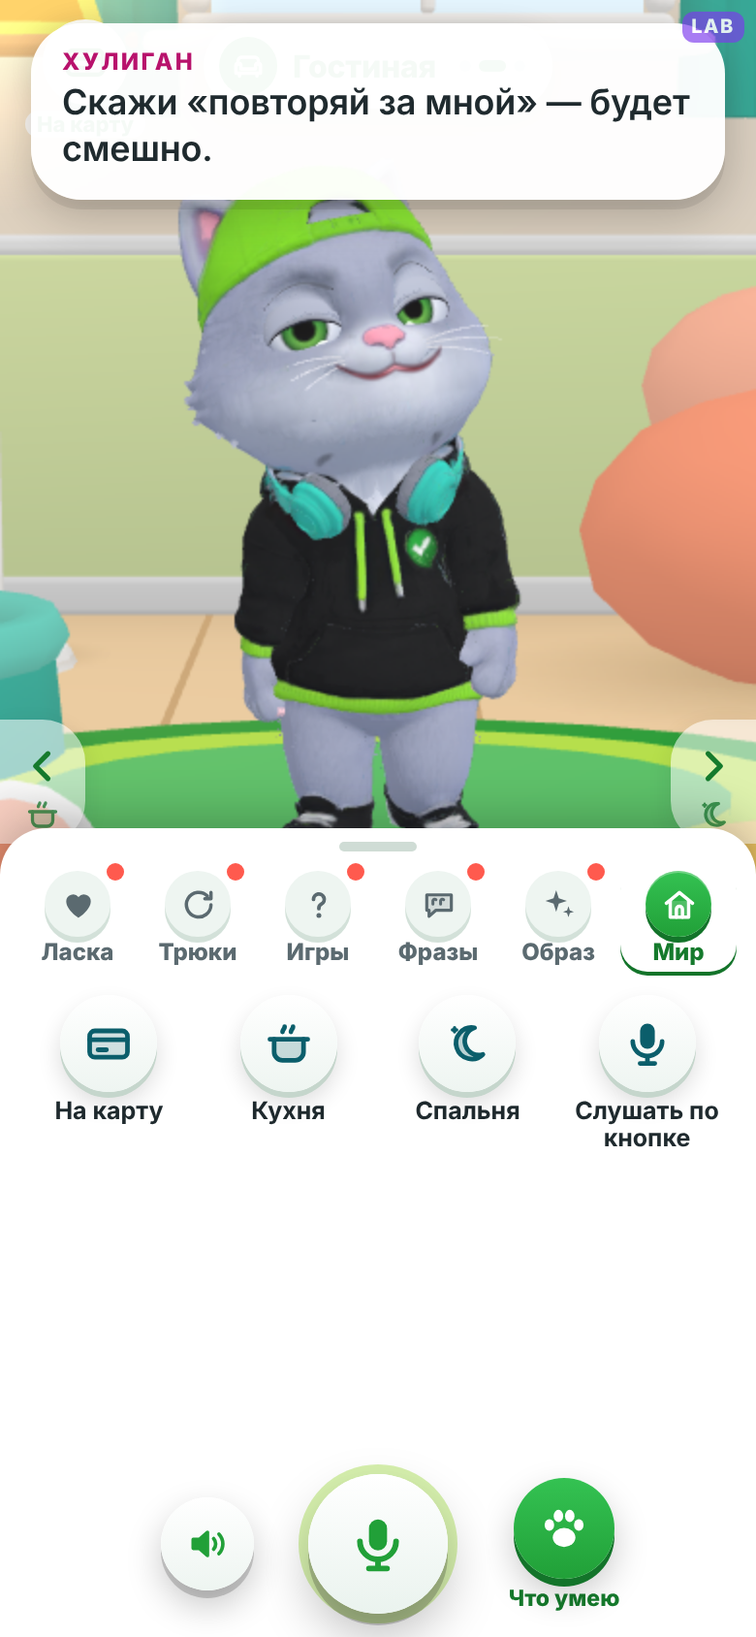
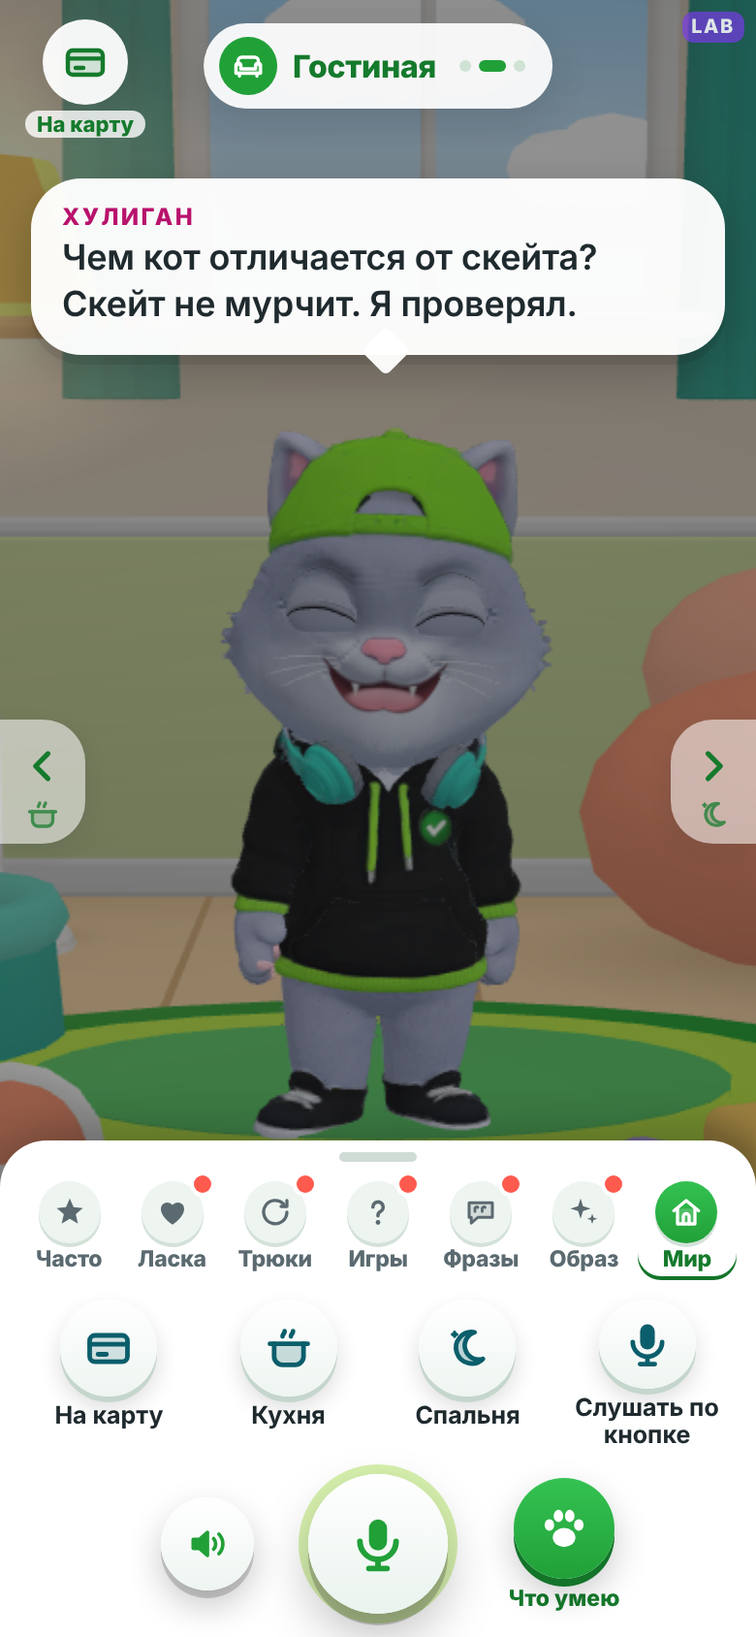
Лист «Что умею» на телефоне: по содержимому, кот не крупнее и целиком, «Часто» всегда, пузырь дома ниже шапки
- лист: вкладки + не больше 2 рядов сетки (~29 % экрана), больше — листается внутри; лежит прямо на доке
  (док поверх нижнего поля листа, фон листа продолжается под ним); все 7 вкладок на 390 px, активная — в видимой части
- сдвиг кота — по экранной рамке костей скелета (уши, кепка, лапы — с запасом), а не по приближению головы:
  масштаб ≤ 1 (никакого приближения), кот целиком над листом; дома — только сдвиг
- «Часто» есть всегда: без истории — первые умения разделов
- дома при открытом листе пузырь и кот — ниже «На карту» и названия комнаты
- снимки phone_sheet_open/home/closed, новый phone_sheet_cam (?nocard=cam, поддельная камера); docs

Claude-Session: https://claude.ai/code/session_01TNvxkLCsxbKCemGz8o5LhK

diff --git a/src/ui/styles.css b/src/ui/styles.css
@@ -740,8 +740,8 @@ body > .toast { position: fixed; }
    Кот сдвигается в область над листом (app.ts, transform холста). Тянуть вниз за ручку/вкладки, тап мимо, лапка — закрыть;
    8 с без касаний — сворачивается сам. В альбомной — колонка у левого края. */
 .cs-handle, .cs-tip { display: none; }
-.catalog.sheet-mode { position: fixed; z-index: 6; left: 0; right: 0; bottom: 0; width: auto; height: calc(clamp(240px, 38vh, 400px) + var(--dock-h));
-  display: flex; flex-direction: column; padding: 0 max(10px, var(--safe-r)) var(--dock-h) max(10px, var(--safe-l)); border-radius: 24px 24px 0 0; margin: 0 auto; max-width: 600px;
+.catalog.sheet-mode { position: fixed; z-index: 6; left: 0; right: 0; bottom: 0; width: auto; height: auto; max-height: calc(100% - var(--safe-t) - 120px);
+  display: flex; flex-direction: column; padding: 0 max(10px, var(--safe-r)) calc(var(--dock-h) - 2px) max(10px, var(--safe-l)); border-radius: 24px 24px 0 0; margin: 0 auto; max-width: 600px;
   background: #fff; box-shadow: 0 -6px 24px rgba(0, 0, 0, .22); }
 /* док (звук, микрофон, лапка) — поверх нижней части листа: лапка закрывает лист */
 .ui.sheet-open .dock { z-index: 7; background: none; }
@@ -749,12 +749,15 @@ body > .toast { position: fixed; }
 .catalog.sheet-mode .cs-handle i { width: 40px; height: 5px; border-radius: 3px; background: #cfdcd5; }
 .catalog.sheet-mode .cat-top { flex: none; touch-action: none; }
 .catalog.sheet-mode .cat-tabs { gap: 2px; padding: 0 0 4px; touch-action: pan-x; }
-.cs-tab.cat-tab { flex: 1 1 0; min-width: 44px; height: auto; flex-direction: column; gap: 2px; padding: 4px 1px 3px; border-radius: 14px; font: 800 12px/1.05 var(--font); justify-content: center; }
-.cs-tab.cat-tab .cat-tab-ico { width: 34px; height: 34px; }
-.cs-tab.cat-tab svg { width: 19px; height: 19px; }
+.cs-tab.cat-tab { flex: 1 1 0; min-width: 0; height: auto; flex-direction: column; gap: 2px; padding: 3px 0 3px; border-radius: 12px; font: 800 11.5px/1.05 var(--font); justify-content: center; letter-spacing: -.01em; }
+.cs-tab.cat-tab .cat-tab-ico { width: 32px; height: 32px; box-shadow: 0 2px 0 #d3e1d9; }
+.cs-tab.cat-tab svg { width: 18px; height: 18px; }
+.cs-tab.cat-tab.new::after { top: 0; right: calc(50% - 20px); }
 .cs-tab.cat-tab.on { box-shadow: inset 0 1px 0 rgba(255,255,255,.3), 0 2px 0 #13742a; }
-.cat-row.cs-grid { flex: 1; min-height: 0; display: grid; grid-template-columns: repeat(4, minmax(0, 1fr)); grid-auto-rows: min-content; gap: 6px 4px;
-  overflow-x: hidden; overflow-y: auto; touch-action: pan-y; padding: 6px 2px 4px; scroll-snap-type: none; overscroll-behavior: contain; }
+.cat-row.cs-grid { flex: none; min-height: 0; display: grid; grid-template-columns: repeat(4, minmax(0, 1fr)); grid-auto-rows: 78px; gap: 4px 4px;
+  /* не больше двух рядов — остальное листается внутри сетки */
+  max-height: calc(78px * 2 + 4px + 10px); overflow-x: hidden; overflow-y: auto; touch-action: pan-y; padding: 6px 2px 4px; scroll-snap-type: y proximity; overscroll-behavior: contain; }
+.cs-grid .cs-item { scroll-snap-align: start; }
 .cs-item { appearance: none; position: relative; border: 0; background: none; padding: 2px 0 0; display: flex; flex-direction: column; align-items: center; gap: 4px; min-width: 0;
   color: var(--ink); font: 700 12.5px/1.15 var(--font); cursor: pointer; -webkit-touch-callout: none; }
 .cs-ico { position: relative; width: 50px; height: 50px; border-radius: 50%; display: grid; place-items: center; color: var(--green);
@@ -779,6 +782,7 @@ body > .toast { position: fixed; }
 canvas.gl.shifted, canvas.gl.unshifting { transform-origin: 0 0; transition: transform .32s var(--ease); }
 @media (max-height: 700px) and (orientation: portrait) {
   .cs-ico { width: 44px; height: 44px; } .cs-ico svg { width: 23px; height: 23px; } .cs-item { font-size: 12px; }
+  .cat-row.cs-grid { grid-auto-rows: 72px; max-height: calc(72px * 2 + 4px + 10px); }
 }
 @media (orientation: landscape) and (max-height: 520px) {
   .catalog.sheet-mode { left: var(--edge); right: auto; top: calc(var(--safe-t) + 8px); bottom: calc(8px + var(--safe-b)); height: auto; width: min(46vw, 400px); max-width: none; margin: 0;
@@ -787,6 +791,8 @@ canvas.gl.shifted, canvas.gl.unshifting { transform-origin: 0 0; transition: tra
   .catalog.sheet-mode .cat-top { flex-direction: row; width: auto; }
   .catalog.sheet-mode .cat-tabs { flex-direction: row; overflow-x: auto; overflow-y: hidden; touch-action: pan-x; }
   .catalog.sheet-mode .cs-tab.cat-tab { font-size: 11px; padding: 4px 4px 3px; }
-  .catalog.sheet-mode .cat-row.cs-grid { flex-direction: unset; width: auto; align-items: unset; }
+  .catalog.sheet-mode .cat-row.cs-grid { flex: 1; max-height: none; flex-direction: unset; width: auto; align-items: unset; }
 }
 .ui.sheet-open .dock .paw-l { color: var(--green-text); text-shadow: none; }
+/* дом и открытый лист: пузырь — ниже «На карту» и названия комнаты */
+.ui.sheet-open:has(> .home-hud:not(.hidden)) .bubble { top: calc(var(--safe-t) + 92px); }

diff --git a/src/app.ts b/src/app.ts
@@ -531,8 +531,46 @@ export class App {
     this.shiftArea = free;
     this.applyShift();
   }
+  private catBox = new THREE.Box3();
+  private catCorner = new THREE.Vector3();
+  /**
+   * Экранная рамка кота без сдвига (px): проекция габаритов модели — для листа каталога. Кот целиком (уши, лапы),
+   * а не приближение по голове (rawCatRect): при виде сверху кот шире, чем 0,64 высоты.
+   */
+  catScreenBox(): { top: number; bottom: number; cx: number; half: number } | null {
+    const obj = this.character?.object;
+    if (!obj || !this.stage?.root.visible) return this.rawCatRect();
+    obj.updateMatrixWorld(true);
+    const w = this.root.clientWidth, h = this.root.clientHeight;
+    let l = Infinity, r = -Infinity, t = Infinity, btm = -Infinity, n = 0;
+    const add = (v: THREE.Vector3) => {
+      const c = v.project(this.stage.camera);
+      const x = ((c.x + 1) / 2) * w, y = ((1 - c.y) / 2) * h;
+      if (!Number.isFinite(x + y)) return;
+      l = Math.min(l, x);
+      r = Math.max(r, x);
+      t = Math.min(t, y);
+      btm = Math.max(btm, y);
+      n++;
+    };
+    // кости скелета (поза сейчас, дёшево); без скелета — габариты модели
+    obj.traverse((o) => {
+      if ((o as THREE.Bone).isBone) add(o.getWorldPosition(this.catCorner));
+    });
+    if (n < 4) {
+      const b = this.catBox.setFromObject(obj);
+      if (b.isEmpty()) return this.rawCatRect();
+      for (let i = 0; i < 8; i++) add(this.catCorner.set(i & 1 ? b.max.x : b.min.x, i & 2 ? b.max.y : b.min.y, i & 4 ? b.max.z : b.min.z));
+    }
+    if (!n) return this.rawCatRect();
+    // кости — внутри тела: запас на мех, уши и кепку (голова — сверху)
+    const bh = Math.max(1, btm - t), bw = Math.max(1, r - l);
+    const padX = Math.max(bw * 0.18, bh * 0.12);
+    return { top: t - bh * 0.22, bottom: btm + bh * 0.04, cx: (l + r) / 2, half: bw / 2 + padX };
+  }
   private applyShift() {
-    const v = this.shiftArea ? fitShift(this.rawCatRect(), this.shiftArea, 10, !this.home?.inRoom) : NO_SHIFT;
+    // кот — не крупнее, чем был (никакого приближения), целиком в области над листом; дома — только сдвиг
+    const v = this.shiftArea ? fitShift(this.catScreenBox(), this.shiftArea, 8, !this.home?.inRoom) : NO_SHIFT;
     const same = (a: ViewShift, b: ViewShift) => Math.abs(a.dx - b.dx) < 2 && Math.abs(a.dy - b.dy) < 2 && Math.abs(a.s - b.s) < 0.01;
     if (same(v, this.shift) && (v === NO_SHIFT) === (this.shift === NO_SHIFT)) return;
     const prev = this.shift;

diff --git a/src/ui/ui.ts b/src/ui/ui.ts
@@ -694,7 +694,8 @@ export class UI {
     if (!this.catalogOpen || !this.sheetMode) return null;
     const root = this.root.getBoundingClientRect(), box = this.catalogEl.getBoundingClientRect();
     const land = this.root.clientWidth > this.root.clientHeight && this.root.clientHeight <= 520;
-    const topPad = 24;
+    // дома сверху — «На карту» и название комнаты: кот (и пузырь, styles.css) — ниже них
+    const topPad = this.root.querySelector('.home-hud:not(.hidden)') ? 92 : 24;
     if (land) return { top: topPad, bottom: root.height - 8, left: box.right - root.left, right: root.width };
     return { top: topPad, bottom: box.top - root.top, left: 0, right: root.width };
   }
@@ -737,6 +738,9 @@ export class UI {
     row.className = 'cat-row cs-grid';
     row.dataset.sec = g.id;
     for (const it of g.items) row.appendChild(this.gridItem(it, () => this.pickSheet(it)));
+    // активная вкладка всегда видна (узкий экран: ряд вкладок листается)
+    const on = tabs.querySelector('.cs-tab.on') as HTMLElement | null;
+    if (on && (on.offsetLeft < tabs.scrollLeft || on.offsetLeft + on.offsetWidth > tabs.scrollLeft + tabs.clientWidth)) tabs.scrollLeft = on.offsetLeft - 8;
   }
   /** кнопка сетки (лист и десктоп-панель): иконка, подпись до двух строк, точка «новое», долгое нажатие — подсказка */
   gridItem(it: CatalogItem, pick: () => void, extra = ''): HTMLButtonElement {

diff --git a/tests/catalogGroups.test.ts b/tests/catalogGroups.test.ts
@@ -53,8 +53,11 @@ describe('группы каталога (лист телефона и дескт
   it('«Часто»: предложения кота, потом последние; только пункты каталога', () => {
     const groups = groupCatalog(buildCatalog(content.personas.get('kind')!, env));
     const o = oftenGroup(groups, ['flip', 'nope', 'pet'], ['riddle', 'giveup'])!;
-    expect(o.items.map((i) => i.id)).toEqual(['riddle', 'flip', 'pet']);
-    expect(oftenGroup(groups, [], [])).toBeNull();
+    expect(o.items.map((i) => i.id).slice(0, 3)).toEqual(['riddle', 'flip', 'pet']);
+    // истории нет — «Часто» всё равно есть: первые умения разделов
+    const empty = oftenGroup(groups, [], [])!;
+    expect(empty.items.length).toBe(4);
+    expect(empty.items[0].id).toBe(groups[0].items[0].id);
     const mem = new Map<string, string>();
     const st = { getItem: (k: string) => mem.get(k) ?? null, setItem: (k: string, v: string) => void mem.set(k, v) };
     const r = new RecentStore(st, 'k', 3);

diff --git a/src/ui/catalogGroups.ts b/src/ui/catalogGroups.ts
@@ -73,6 +73,12 @@ export function oftenGroup(groups: CatalogGroup[], recent: readonly string[], su
     const it = all.get(id);
     if (it && !out.includes(it) && out.length < max) out.push(it);
   }
+  // мало истории (первый раз, дома) — добираем по первому умению из разделов, чтобы «Часто» было всегда
+  for (let k = 0; out.length < Math.min(4, max) && k < 4; k++)
+    for (const g of groups) {
+      const it = g.items.filter((i) => !('ui' in i.run))[k];
+      if (it && !out.includes(it) && out.length < Math.min(4, max)) out.push(it);
+    }
   return out.length ? { id: 'often', ...GROUP_META.often, items: out } : null;
 }
 

diff --git a/docs/EDITIONS.md b/docs/EDITIONS.md
@@ -32,7 +32,7 @@
 | `home` | да | да | нет | мир кота, базовый: пункт каталога «Мой дом» (`app.ts withHome` → `feature('home')`); `?flow=home` — как отладочный флоу |
 | `awake` | да | да | нет | пробуждение-катсцена и салют (влито 18.11: `src/awake`, `fx/salute.ts`, звуки `public/sounds/awake.*`): `app.ts` → `feature('awake')`; выключить → `mvp: false` или `OFF_SWITCH` `?awake=0` (старое появление). `?flow=awake` (кнопки «↻ Пробуждение / ↻ Повтор») — как отладочный флоу: lab или со страницы /test |
 | `progress.server` | да | да | нет | прогресс на сервере (`src/progress/index.ts bootProgress`); выкл. — только localStorage |
-| `catalog.sheet` | да | да | нет | каталог «Что умею» на телефоне — лист снизу (~38 % экрана) над доком: вкладки «Часто · Ласка · Трюки · Игры · Фразы · Образ · Мир», сетка 4 в ряд, подписи до 2 строк; кот плавно сдвигается/уменьшается в область над листом (`app.ts setShiftArea`, `ui/catalogGroups.ts fitShift`); лист не закрывается после действия, сам сворачивается через 8 с. UX-исправление — включено и в MVP; выключить → `mvp: false` (вернётся лента) |
+| `catalog.sheet` | да | да | нет | каталог «Что умею» на телефоне — лист снизу по содержимому (вкладки + 2 ряда, ~29 % экрана) прямо на доке: вкладки «Часто · Ласка · Трюки · Игры · Фразы · Образ · Мир», сетка 4 в ряд, подписи до 2 строк; кот плавно сдвигается/уменьшается в область над листом (`app.ts setShiftArea`, `ui/catalogGroups.ts fitShift`); лист не закрывается после действия, сам сворачивается через 8 с. UX-исправление — включено и в MVP; выключить → `mvp: false` (вернётся лента) |
 | `desktop.panel` | да | да | нет | панель умений справа на десктопе (`ui/deskPanel.ts`): все пункты каталога сеткой, поиск, горячие клавиши; вкладка «Тест» — в lab, в MVP только с `?debug` или `?from=test`. Активна только в десктоп-просмотре (`?desktop`, без касаний, окно ≥ 900 px); сам `?desktop` в MVP — со страницы /test |
 | `games.new` | — | да | нет | «Угадай рожицу», «Камень-ножницы», «Делай как я»: `persona/content.ts editionDialogs` убирает их диалоги, триггеры и предложения → нет в каталоге, чипах, голосом; `scenario/initiative.ts OFFERS`; `?flow=emo/rps/simon` вырезается |
 | `stickers.pack` | — | да | нет | новый пак наклеек СберКота (24 SVG, `public/stickers/sber`) и коллекция «собрал N из M» (каталог, `ui.ts`). Влит 18.11: проверки в `fx/fxLayer.ts` (`coverSet`/`nextRandom`/предзагрузка `PACK`) и `ui.ts` (плашка коллекции). В MVP — прежние процедурные наклейки кота (`stickerPack.ts LEGACY`, `editionStickers`), **без грубых надписей в обеих редакциях** («ТУТ БЫЛ КОТ», «ЙО!», «ХОП»/«ПОХ», тег «КОТ» убраны; надписи не зеркалятся). Новая анимация шлепка/отклеивания/рассыпания и «не больше 8 на стекле» — в обеих |

diff --git a/docs/qa/TEST_FLOWS.md b/docs/qa/TEST_FLOWS.md
@@ -135,8 +135,8 @@ https://ar.vershov.com/test — карточки со ссылками; моди
 
 | Действие | Как | Ожидание |
 |---|---|---|
-| Открыть | лапка «Что умею» | лист снизу ~38 % экрана над доком; чипы кота скрыты; кот **плавно уезжает вверх** (если не помещается — уменьшается; дома — только сдвиг), голова и тело не под листом. В лог: «каталог: кот сдвинут…» |
-| Вкладки | Часто · Ласка · Трюки · Игры · Фразы · Образ · Мир | «Часто» — то, что кот предлагает сейчас + последние выбранные; сетка 4 в ряд, подписи до 2 строк, ничего не обрезано |
+| Открыть | лапка «Что умею» | лист по содержимому (~29 % экрана: вкладки + 2 ряда сетки, больше 8 пунктов — сетка листается внутри), лежит прямо на доке (док поверх его нижнего поля); чипы кота скрыты; кот **плавно уезжает вверх** по рамке скелета (не крупнее, чем был; не помещается — уменьшается; дома — только сдвиг), голова и тело не под листом. Дома пузырь и кот — ниже «На карту» и названия комнаты. В лог: «каталог: кот сдвинут…» |
+| Вкладки | Часто · Ласка · Трюки · Игры · Фразы · Образ · Мир (все 7 помещаются на 390 px, активная прокручивается в видимую часть) | «Часто» — всегда первая: что кот предлагает сейчас + последние выбранные, без истории — первые умения разделов; сетка 4 в ряд, подписи до 2 строк, ничего не обрезано |
 | Действие | тап по пункту | кот реагирует, лист **остаётся** открытым, красная точка пункта гаснет |
 | Подсказка | долгое нажатие на пункт | короткая подсказка над пунктом, действие не выполняется |
 | Закрыть | свайп вниз за ручку/вкладки, тап мимо листа, лапка ещё раз, 8 с без касаний | лист уходит, кот плавно возвращается на место; тап по коту сразу после закрытия попадает по нему |
@@ -144,4 +144,4 @@ https://ar.vershov.com/test — карточки со ссылками; моди
 | Альбомная | повернуть телефон | лист — колонка у левого края, кот сдвигается вправо |
 | Выключить | `FEATURES['catalog.sheet']` → `false` | прежняя лента каталога |
 
-Снимки 390×844: `docs/ui/phone_sheet_closed.png`, `docs/ui/phone_sheet_open.png` (`?nocard=off`), `docs/ui/phone_sheet_home.png`.
+Снимки 390×844: `docs/ui/phone_sheet_closed.png`, `docs/ui/phone_sheet_open.png` (`?nocard=off`), `docs/ui/phone_sheet_cam.png` (`?nocard=cam`, поддельная камера headless — как AR с картой), `docs/ui/phone_sheet_home.png` (с пузырём).
